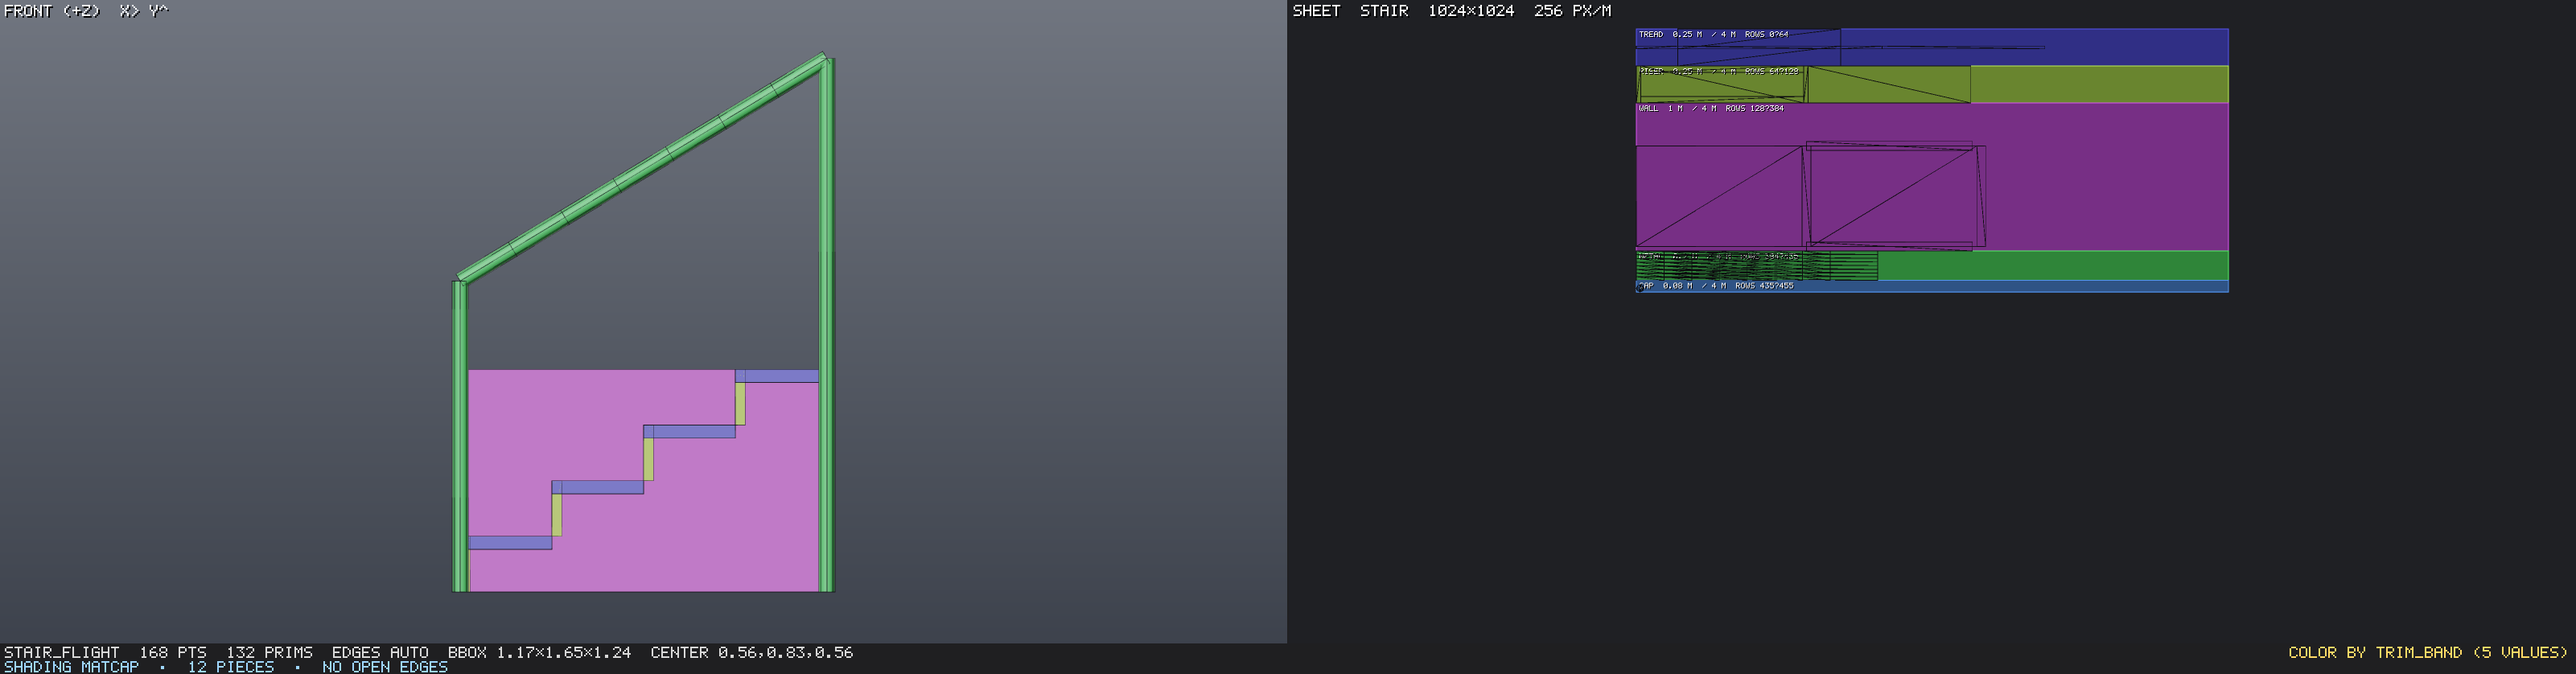
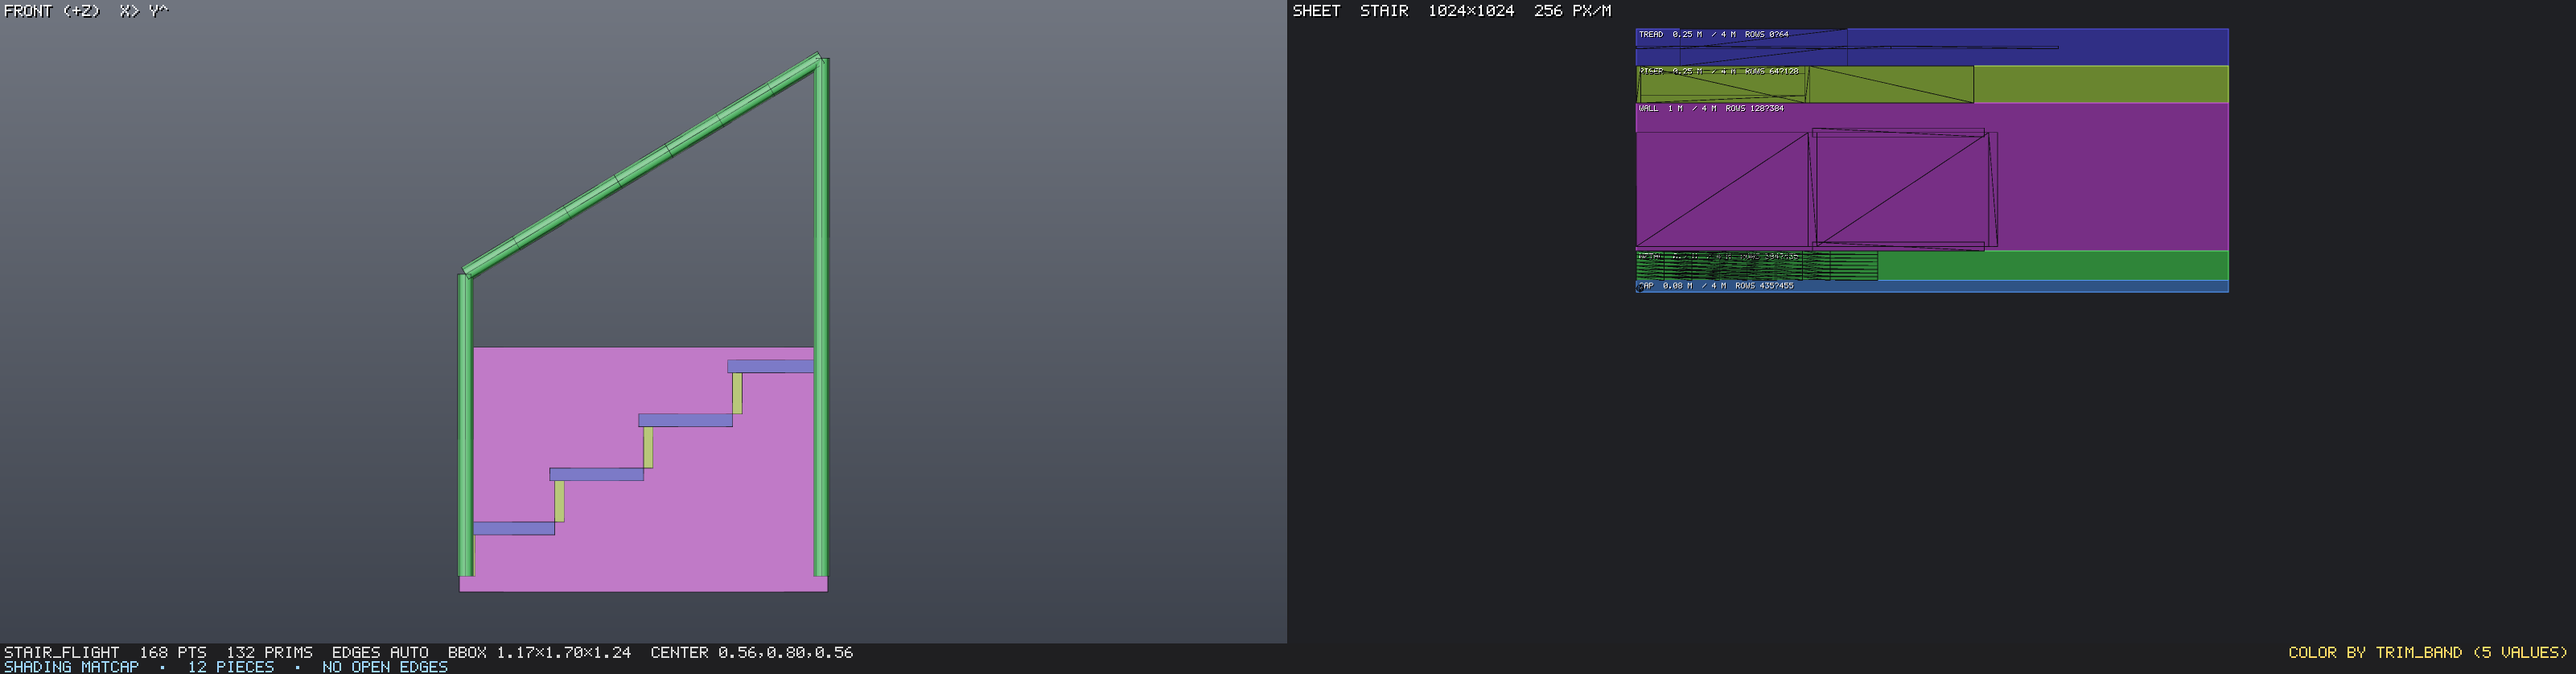
Trim examples: no two faces of a mesh lie in one plane and overlap
The stair flight had treads and risers sharing top, front and side faces, and treads and risers lying against the cheek wall (24 coplanar overlapping pairs at the defaults); the corridor wall had a sign sharing two faces with its panel (2 pairs) and panels lying against the plate. An engine draws such faces flickering. Treads now carry a nosing and sink into the cheek, risers sink into the treads and the cheek, the cheek rises a little above the top tread and below the floor, the sign sits inside its panel's edges and panels sink into the plate. The stair box now reaches 5 cm below the floor. A test cooks both examples at the defaults and at every param end and fails on any coplanar overlap.

diff --git a/test/trim.ts b/test/trim.ts
@@ -2,6 +2,7 @@
 // one convention everywhere (u = distance / period from the path's start, whole repeats on closed paths, v filling
 // the band, never mirrored, upright on walls), the sheets carried through merge.
 //   node test/trim.ts
+import fs from 'node:fs';
 import '../src/nodes/index.ts';
 import { Engine } from '../src/graph/engine.ts';
 import { createNodeHost } from '../src/host/node.ts';
@@ -258,6 +259,63 @@ const straight = { type: 'curve', params: { points: [[0, 0, 0], [1.5, 0, 0], [3,
   const cols = (img: Float32Array, i0: number, i1: number) => { let s = 0, n = 0; for (let j = 0; j < 32; j++) for (let i = i0; i <= i1; i++) { s += img[j * 32 + i]; n++; } return s / n; };
   const openEnds = (cols(open, 0, 1) + cols(open, 30, 31)) / 2, shutEnds = (cols(shut, 0, 1) + cols(shut, 30, 31)) / 2;
   check(shutEnds < openEnds - 0.02, `tiling: the open ends of a tube darken once the next period is there (${openEnds.toFixed(3)} → ${shutEnds.toFixed(3)})`);
+}
+
+// ---------------------------------------------------------------- the example meshes have no coplanar overlapping faces
+// Two faces in one plane that overlap flicker (z-fight) in an engine, however the faces face. The trim examples are built
+// of boxes and tubes that overlap in volume, so a face of one must never lie in a face of another.
+{
+  const overlapPairs = (g: Geometry) => {
+    const faces = Array.from({ length: g.numPrims }, (_, p) => {
+      const pts = g.primPoints(p).map((i) => [g.P[i * 3], g.P[i * 3 + 1], g.P[i * 3 + 2]]);
+      const n = [0, 0, 0];
+      pts.forEach((a, i) => { const b = pts[(i + 1) % pts.length]; n[0] += (a[1] - b[1]) * (a[2] + b[2]); n[1] += (a[2] - b[2]) * (a[0] + b[0]); n[2] += (a[0] - b[0]) * (a[1] + b[1]); });
+      const l = Math.hypot(n[0], n[1], n[2]) || 1;
+      const u = n.map((x) => x / l);
+      return { pts, n: u, d: u[0] * pts[0][0] + u[1] * pts[0][1] + u[2] * pts[0][2] };
+    });
+    const area = (q: number[][]) => q.reduce((a, p, i) => { const r = q[(i + 1) % q.length]; return a + (p[0] * r[1] - r[0] * p[1]) / 2; }, 0);
+    const clip = (subject: number[][], by: number[][]) => {
+      let out = subject;
+      for (let i = 0; i < by.length && out.length; i++) {
+        const a = by[i], b = by[(i + 1) % by.length];
+        const side = (p: number[]) => (b[0] - a[0]) * (p[1] - a[1]) - (b[1] - a[1]) * (p[0] - a[0]);
+        const cut = (p: number[], q: number[]) => { const sp = side(p), sq = side(q), t = sp / (sp - sq); return [p[0] + t * (q[0] - p[0]), p[1] + t * (q[1] - p[1])]; };
+        const from = out; out = [];
+        from.forEach((cur, j) => {
+          const prev = from[(j + from.length - 1) % from.length];
+          if (side(cur) >= 0) { if (side(prev) < 0) out.push(cut(prev, cur)); out.push(cur); } else if (side(prev) >= 0) out.push(cut(prev, cur));
+        });
+      }
+      return out;
+    };
+    let pairs = 0;
+    for (let i = 0; i < faces.length; i++) for (let j = i + 1; j < faces.length; j++) {
+      const a = faces[i], b = faces[j], dot = a.n[0] * b.n[0] + a.n[1] * b.n[1] + a.n[2] * b.n[2];
+      if (Math.abs(Math.abs(dot) - 1) > 1e-6 || Math.abs(a.d - (dot > 0 ? b.d : -b.d)) > 1e-5) continue;
+      const ax = Math.abs(a.n[0]) > 0.9 ? [0, 1, 0] : [1, 0, 0];
+      const u = [a.n[1] * ax[2] - a.n[2] * ax[1], a.n[2] * ax[0] - a.n[0] * ax[2], a.n[0] * ax[1] - a.n[1] * ax[0]];
+      const ul = Math.hypot(u[0], u[1], u[2]);
+      const uu = u.map((x) => x / ul), vv = [a.n[1] * uu[2] - a.n[2] * uu[1], a.n[2] * uu[0] - a.n[0] * uu[2], a.n[0] * uu[1] - a.n[1] * uu[0]];
+      const flat = (pts: number[][]) => { const q = pts.map((p) => [p[0] * uu[0] + p[1] * uu[1] + p[2] * uu[2], p[0] * vv[0] + p[1] * vv[1] + p[2] * vv[2]]); return area(q) < 0 ? q.reverse() : q; };
+      const o = clip(flat(a.pts), flat(b.pts));
+      if (o.length > 2 && Math.abs(area(o)) > 1e-7) pairs++;
+    }
+    return pairs;
+  };
+  for (const name of ['stair_flight', 'corridor_panels']) {
+    const graph = JSON.parse(fs.readFileSync(new URL(`../examples/${name}.json`, import.meta.url), 'utf8'));
+    const ranges: Record<string, any>[] = [{}];
+    for (const [k, d] of Object.entries<any>(graph.params ?? {})) if (typeof d.min === 'number' && typeof d.max === 'number') ranges.push({ [k]: d.min }, { [k]: d.max });
+    let worstPairs = 0, cooked = 0;
+    for (const vars of ranges) {
+      const r = await engine.cook(graph, { vars });
+      if (!r.ok || !r.geo) continue;
+      cooked++;
+      worstPairs = Math.max(worstPairs, overlapPairs(r.geo));
+    }
+    check(cooked === ranges.length && worstPairs === 0, `${name}: no two faces lie in one plane and overlap, at the defaults and at each param's ends (${cooked} cooks, ${worstPairs} pairs)`);
+  }
 }
 
 console.log(`\n${pass} passed, ${fail} failed`);
